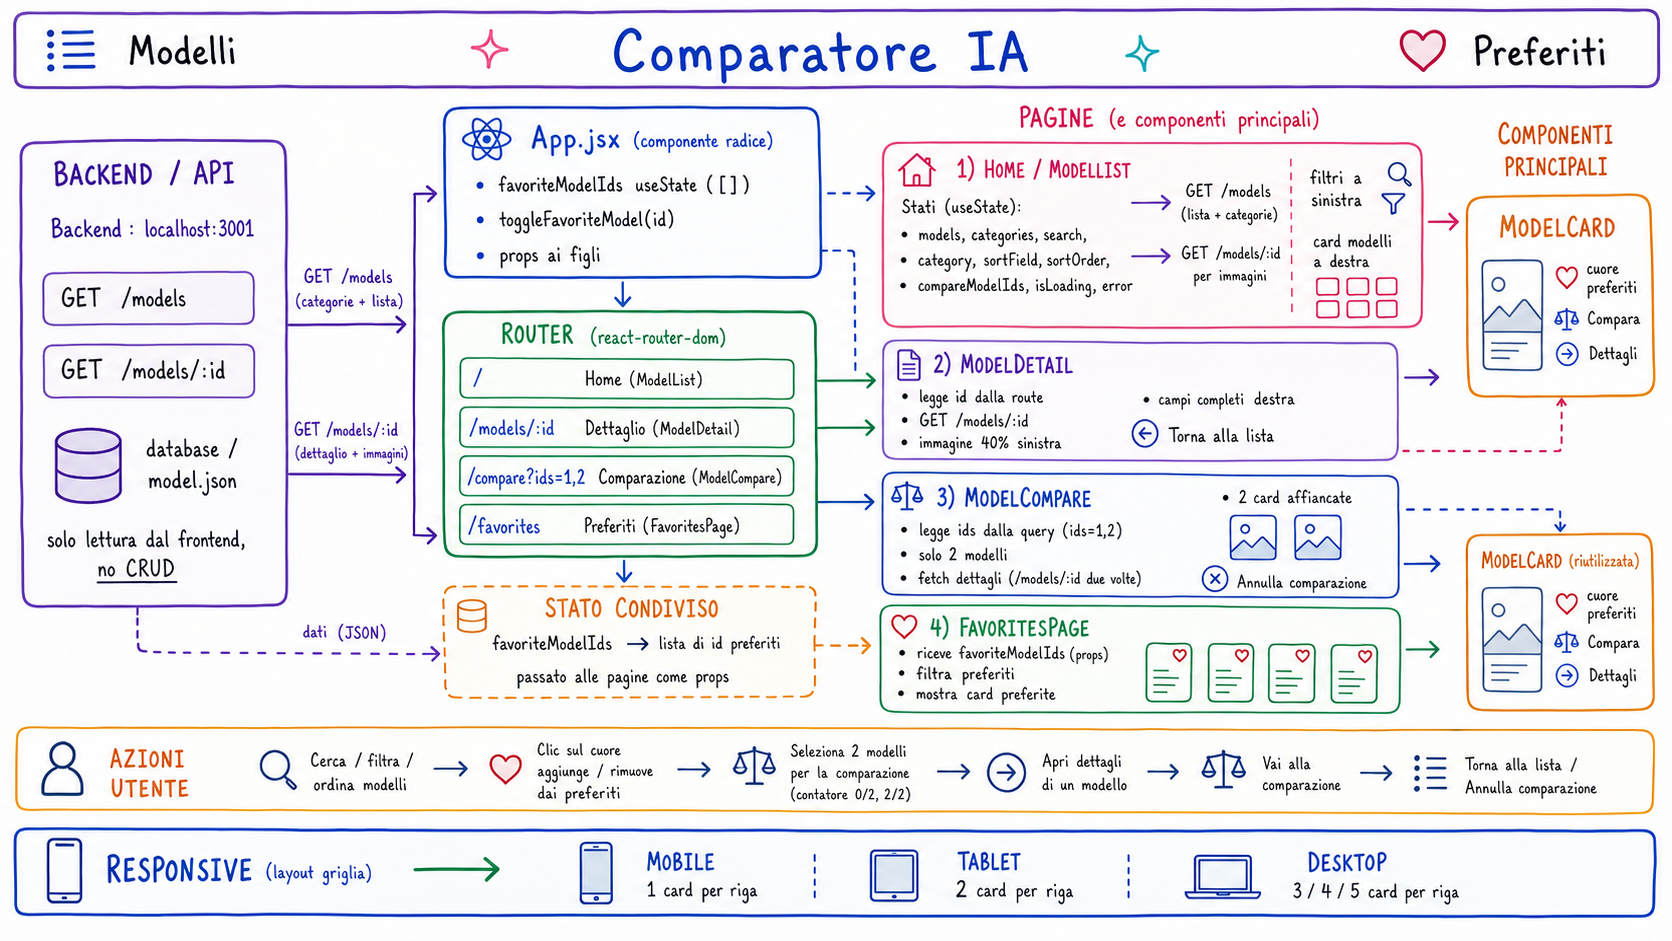
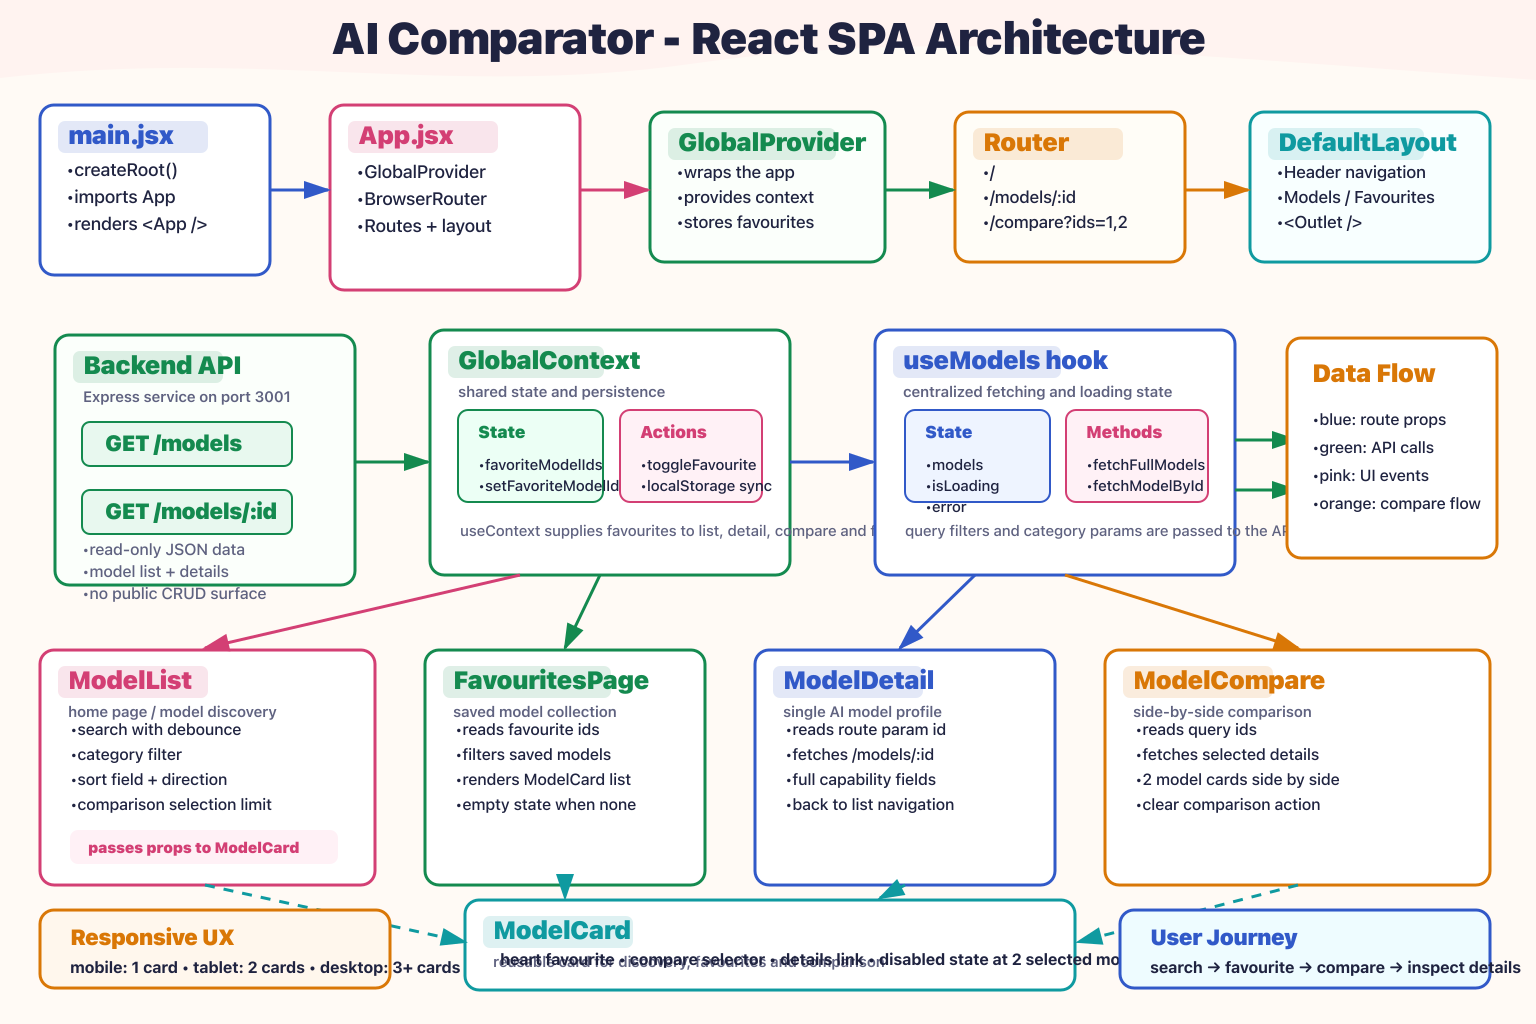
Update AI Comparator logic map

Changed region(s): [[0.0, 0.0, 1.0, 0.9862]]

diff --git a/src/components/ProjectCaseStudy.tsx b/src/components/ProjectCaseStudy.tsx
@@ -90,7 +90,7 @@ const logicMaps: Partial<Record<ProjectEntry["slug"], { src: string; width: numb
   english4u: { src: "/media/projects/english4u/logic-map.png", width: 1536, height: 1024 },
   petnest: { src: "/media/projects/petnest/logic-map.png", width: 1672, height: 941 },
   paytrack: { src: "/media/projects/paytrack/logic-map.png", width: 1536, height: 1024 },
-  "ai-comparator": { src: "/media/projects/ai-comparator/logic-map.png", width: 1672, height: 941 },
+  "ai-comparator": { src: "/media/projects/ai-comparator/logic-map.png", width: 1536, height: 1024 },
   brickdrop: { src: "/media/projects/brickdrop/logic-map.png", width: 1536, height: 1024 },
   "sea-battle": { src: "/media/projects/sea-battle/logic-map.png", width: 1672, height: 941 }
 };
